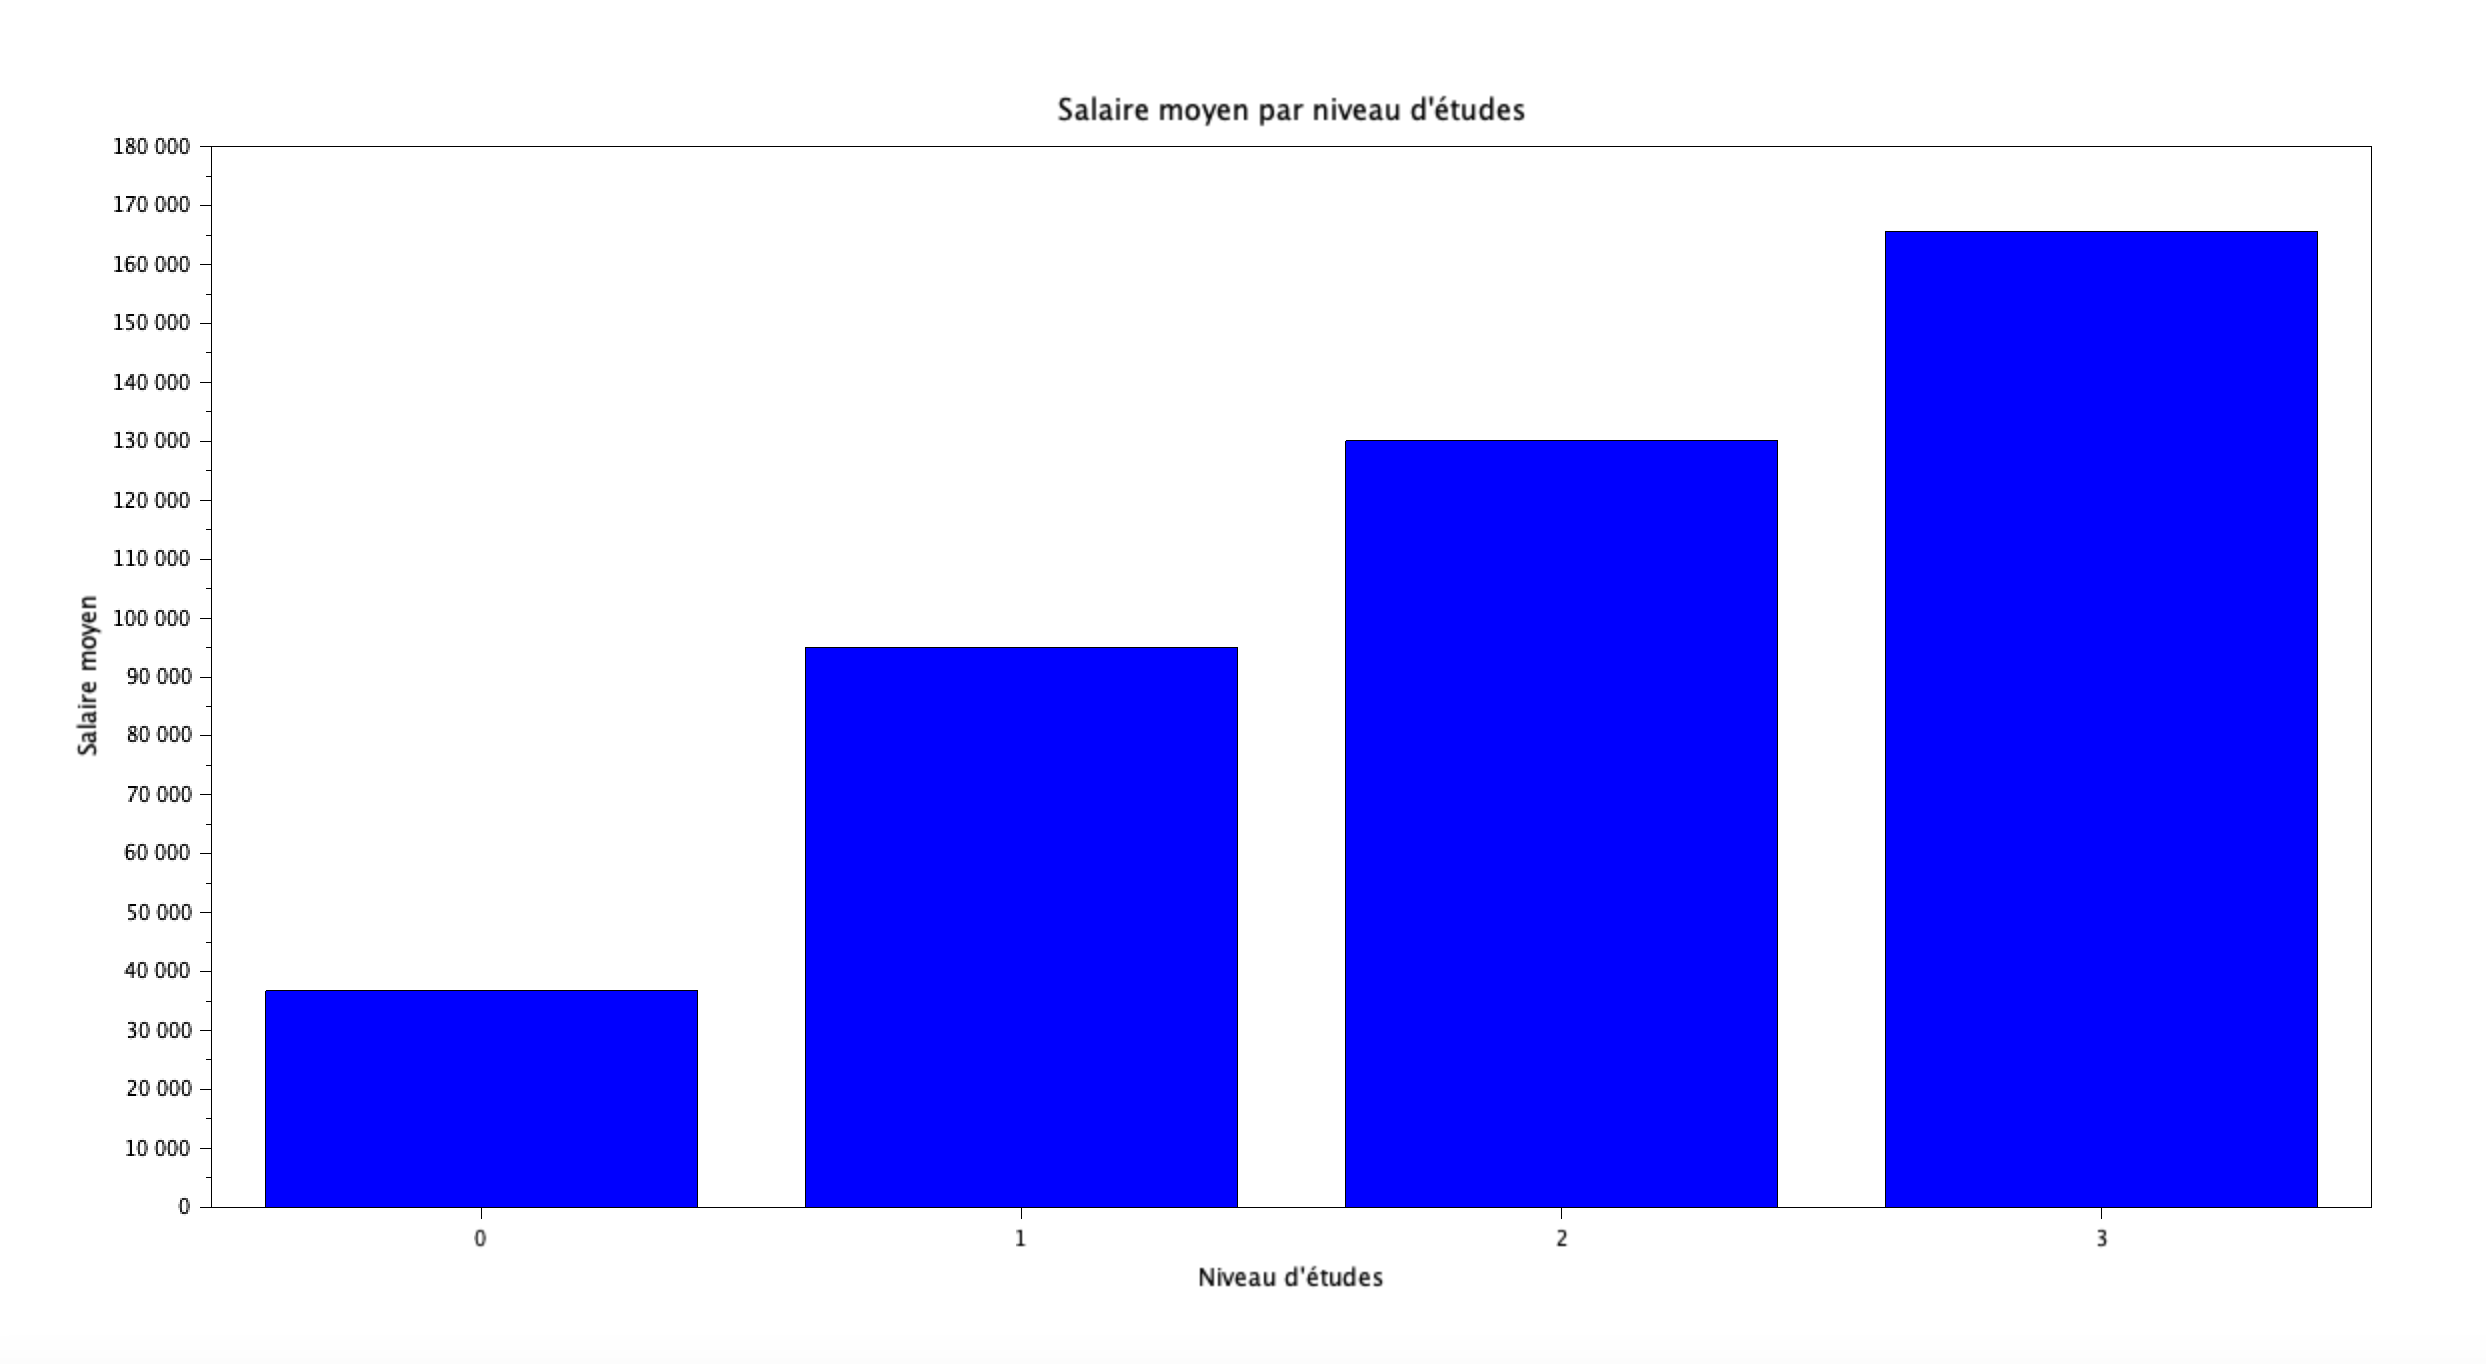
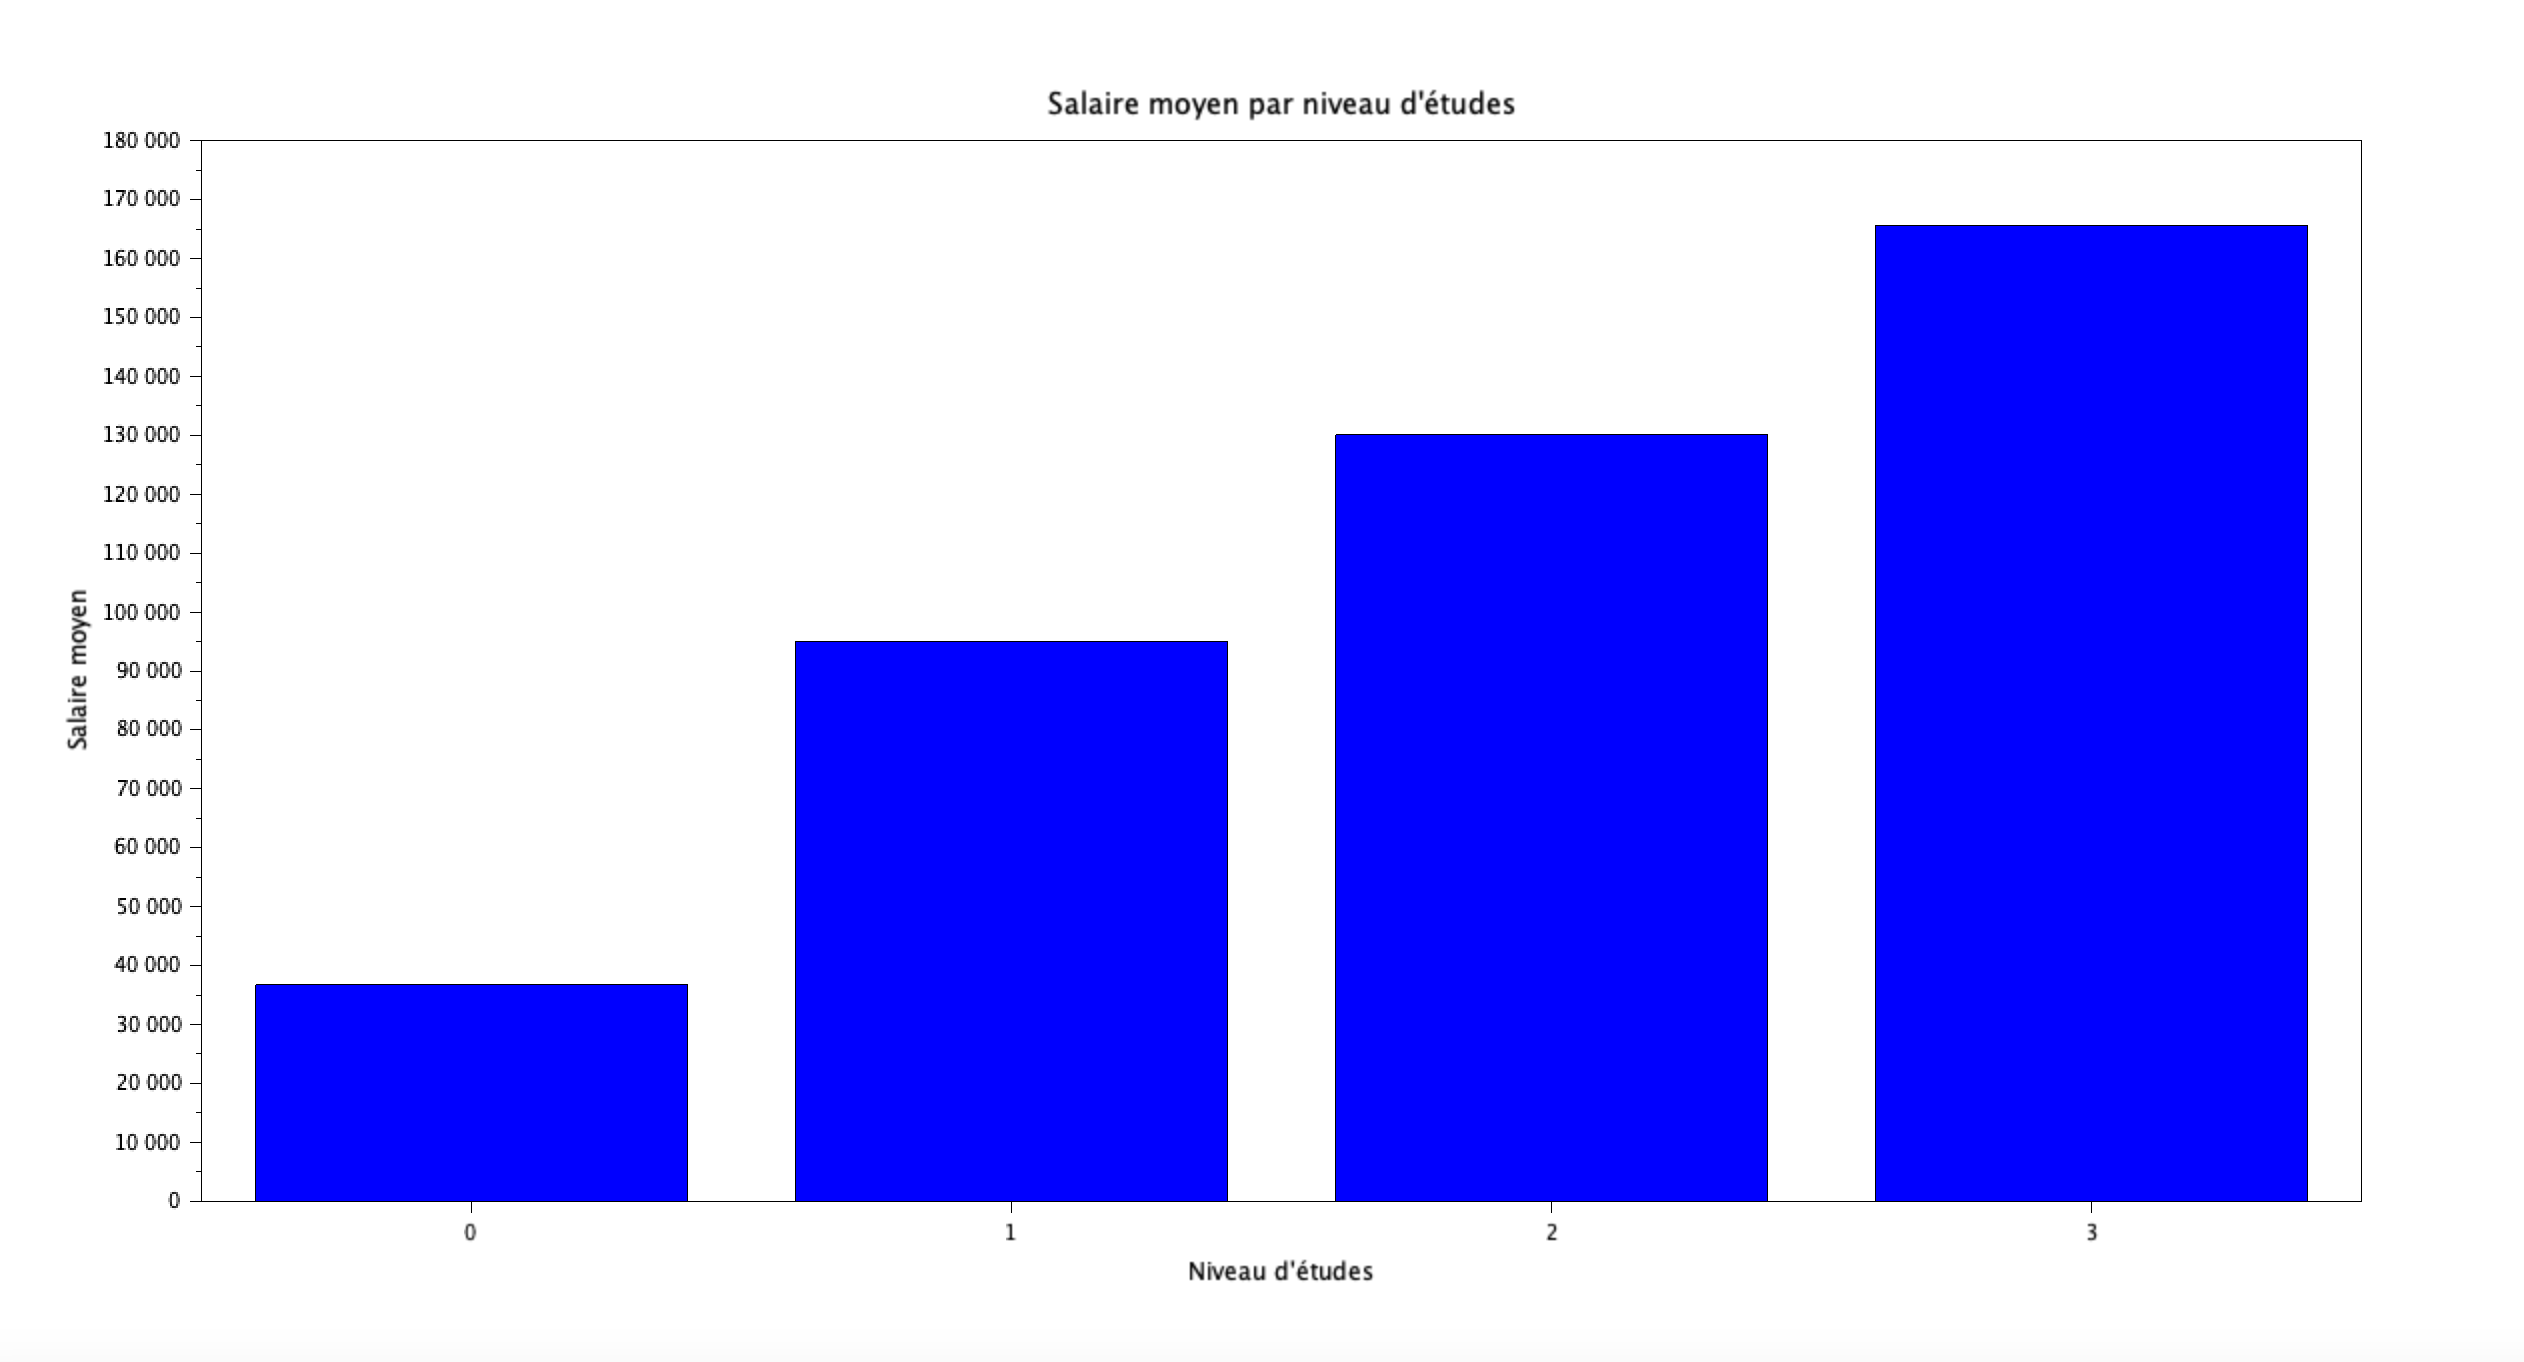
Modifs

diff --git a/EXO3/README.md b/EXO3/README.md
@@ -16,9 +16,8 @@ Pour cette exercice, veuillez initaliser les variables suivantes :
 **[Script Scilab](scripts/init.sce) :**
 
 ```scilab
-D = csvRead('data.csv');
-DD = csvRead('data.csv',',','.','string');
-genre = DD(:,3);
+csvDouble = csvRead("data.csv")                         //ouvre data.csv en une matrice d'entier
+csvString = csvRead("data.csv",[],[],'string')          //ouvre data.csv en une matrice de string
 ```
 
 ---
@@ -27,31 +26,40 @@ genre = DD(:,3);
 
 > Donnez, sous forme d'histogramme, la distribution des salaires suivant le genre.
 
-**[Script Scilab](scripts/q1.sce) :**
+**[Script Scilab - hommes](scripts/q1-homme.sce) :**
 
 ```scilab
-D_homme = D(genre == 'Male',:);
-D_femme = D(genre == 'Female',:);
-salaire_homme = D_homme(:,7);
-salaire_femme = D_femme(:,7);
-num_bins = 50;
+id_male = find(csvString(:,3) == "Male" )
+salaire_male = csvDouble(id_male,7)
+histplot(10,salaire_male,normalization=%f)
+```
 
-subplot(2, 1, 1);
-histplot(num_bins, salaire_homme);
-title("Distribution des salaires pour les hommes");
-xlabel("Salaire");
-ylabel("Fréquence");
+**[Script Scilab - femmes](scripts/q1-femme.sce) :**
 
-subplot(2, 1, 2); 
-histplot(num_bins, salaire_femme);
-title("Distribution des salaires pour les femmes");
-xlabel("Salaire");
-ylabel("Fréquence");
+```scilab
+id_female = find(csvString(:,3) == "Female" )
+salaire_female = csvDouble(id_female,7)
+histplot(10,salaire_female,normalization=%f)
+```
+
+**[Script Scilab - autres](scripts/q1-autres.sce) :**
+
+```scilab
+id_other = find(csvString(:,3) == "Other" )
+salaire_other = csvDouble(id_other,7)
+histplot(10,salaire_other,normalization=%f)
 ```
 
 **Résultat :**
 
-![q1](img/q1.png)
+Hommes : 
+![q1](img/q1-homme.png)
+
+Femmes : 
+![q1](img/q1-femme.png)
+
+Autres : 
+![q1](img/q1-autres.png)
 
 ---
 
@@ -62,16 +70,28 @@ ylabel("Fréquence");
 **[Script Scilab](scripts/q2.sce) :**
 
 ```scilab
-niveau_etudes = D(:, 4);
-salaires = D(:, 7);
-unique_niveaux = unique(niveau_etudes);
-moy_salaire_par_niveau = zeros(size(unique_niveaux));
+indice_high = find(csvDouble(:,4) == 0 )
+salaire_high = csvDouble(indice_high,7)
+moy_h = mean(salaire_high)                                      
 
-for i = 1:length(unique_niveaux)
-    moy_salaire_par_niveau(i) = mean(salaires(niveau_etudes == unique_niveaux(i)));
-end
 
-bar(unique_niveaux, moy_salaire_par_niveau);
+indice_b = find(csvDouble(:,4) == 1 )
+salaire_b = csvDouble(indice_b,7)
+moy_b = mean(salaire_b)                                         
+
+
+indice_m = find(csvDouble(:,4) == 2 )
+salaire_m = csvDouble(indice_m,7)
+moy_m = mean(salaire_m)                                         
+
+
+indice_p = find(csvDouble(:,4) == 3)
+salaire_p = csvDouble(indice_p,7)
+moy_p = mean(salaire_p)                                         
+
+
+matrice = [moy_h,moy_b,moy_m,moy_p]
+bar([0,1,2,3],matrice)
 
 xlabel("Niveau d''études");
 ylabel("Salaire moyen");
@@ -91,14 +111,21 @@ title("Salaire moyen par niveau d''études");
 **[Script Scilab](scripts/q3.sce) :**
 
 ```scilab
-Q = quart(salaires)
-IQR = Q(3) - Q(1);
-min_salaire = min(salaires)
-max_salaire = max(salaires)
-mean(salaires)
-median(salaires)
-stdev(salaires)
-boxplot(salaires)
+mean(csvDouble(:,7))        //moyenne
+min(csvDouble(:,7))         //min
+max(csvDouble(:,7))         //max
+median(csvDouble(:,7))      //médianne
+quart(csvDouble(:,7))       //quartile
+iqr(csvDouble(:,7))         //interquartile
+stdev(csvDouble(:,7))       //ecart-type
+
+sal = tabul(csvDouble(:,7));
+[occurence_tri,indice_tri] = gsort(sal(:,2));
+liste_exp = sal(:,1);
+mode = liste_exp(200)        //mode
+
+atomsLoad("stixbox")
+boxplot(csvDouble(:,7),"orientation","horizontal")
 ```
 **Résultat :**
 
@@ -108,6 +135,7 @@ boxplot(salaires)
 - Maximum : 250000
 - Moyenne : 115326.96
 - Médiane : 115000
+- Mode : 140000
 - Écart-type : 52786.184
 
 ![q3](img/q3.png)
@@ -121,58 +149,62 @@ boxplot(salaires)
 **[Script Scilab](scripts/q4.sce) :**
 
 ```scilab
-QH = quart(salaire_homme)  
-QF = quart(salaire_femme)
-IQH = QH(3) - QH(1)   
-IQF = QF(3) - QF(1)
- min(salaire_homme)  
-min(salaire_femme)   
-max(salaire_homme)   
-max(salaire_femme)   
-mean(salaire_homme) 
-mean(salaire_femme)  
-median(salaire_homme) 
-median(salaire_femme)  
-stdev(salaire_homme) 
-stdev(salaire_femme) 
+MARCO ???
+MARCO ???
+MARCO ???
+MARCO ???
+MARCO ???
+MARCO ???
 
-// boite à moustache hommes : 
-boxplot(salaire_homme);
-title("Boîte à moustaches des salaires des hommes");
-ylabel("Salaires");
 
-// boite à moustache femmes : 
-boxplot(salaire_femme);
-title("Boîte à moustaches des salaires des femmes");
-ylabel("Salaires");
+MARCO ???
+MARCO ???MARCO ???MARCO ???
+MARCO ???
+MARCO ???
+MARCO ???
 ```
 
 **Résultat :**
 
 - Hommes :
 
-    - Quartiles : [Q1, Q2 (médiane), Q3] = [75000, 120000, 170000]
-    - Interquartile Range (IQR) : QH(3) - QH(1) = 95000
-    - Minimum : 350
-    - Maximum : 250000
-    - Moyenne : 121389.87
-    - Médiane : 120000
-    - Écart-type : 52092.726
+    - Quartiles : [Q1, Q2 (médiane), Q3] = [..., ..., ...]
+    - Interquartile Range (IQR) : QH(3) - QH(1) = ...
+    - Minimum : ...
+    - Maximum : ...
+    - Moyenne : ...
+    - Médiane : ...
+    - Écart-type : ...
 
     ![q4-homme](img/q4-homme.png)
 
 
 - Femmes :
 
-    - Quartiles : [Q1, Q2 (médiane), Q3] = [60000, 105000, 150000]
-    - Interquartile Range (IQR) : QF(3) - QF(1) = 90000
-    - Minimum : 500
-    - Maximum : 220000
-    - Moyenne : 107889.00
-    - Médiane : 105000
-    - Écart-type : 52723.610
+    - Quartiles : [Q1, Q2 (médiane), Q3] = [..., ..., ...]
+    - Interquartile Range (IQR) : QF(3) - QF(1) = ...
+    - Minimum : ...
+    - Maximum : ...
+    - Moyenne : ...
+    - Médiane : ...
+    - Écart-type : ...
 
-    ![q4-fille](img/q4-fille.png)
+    ![q4-femme](img/q4-femme.png)
+
+- Femmes :
+
+    - Quartiles : [Q1, Q2 (médiane), Q3] = [..., ..., ...]
+    - Interquartile Range (IQR) : QF(3) - QF(1) = ...
+    - Minimum : ...
+    - Maximum : ...
+    - Moyenne : ...
+    - Médiane : ...
+    - Écart-type : ...
+
+    ![q4-autres](img/q4-autres.png)
+
+- Commentaires : 
+...
 
 ---
 
